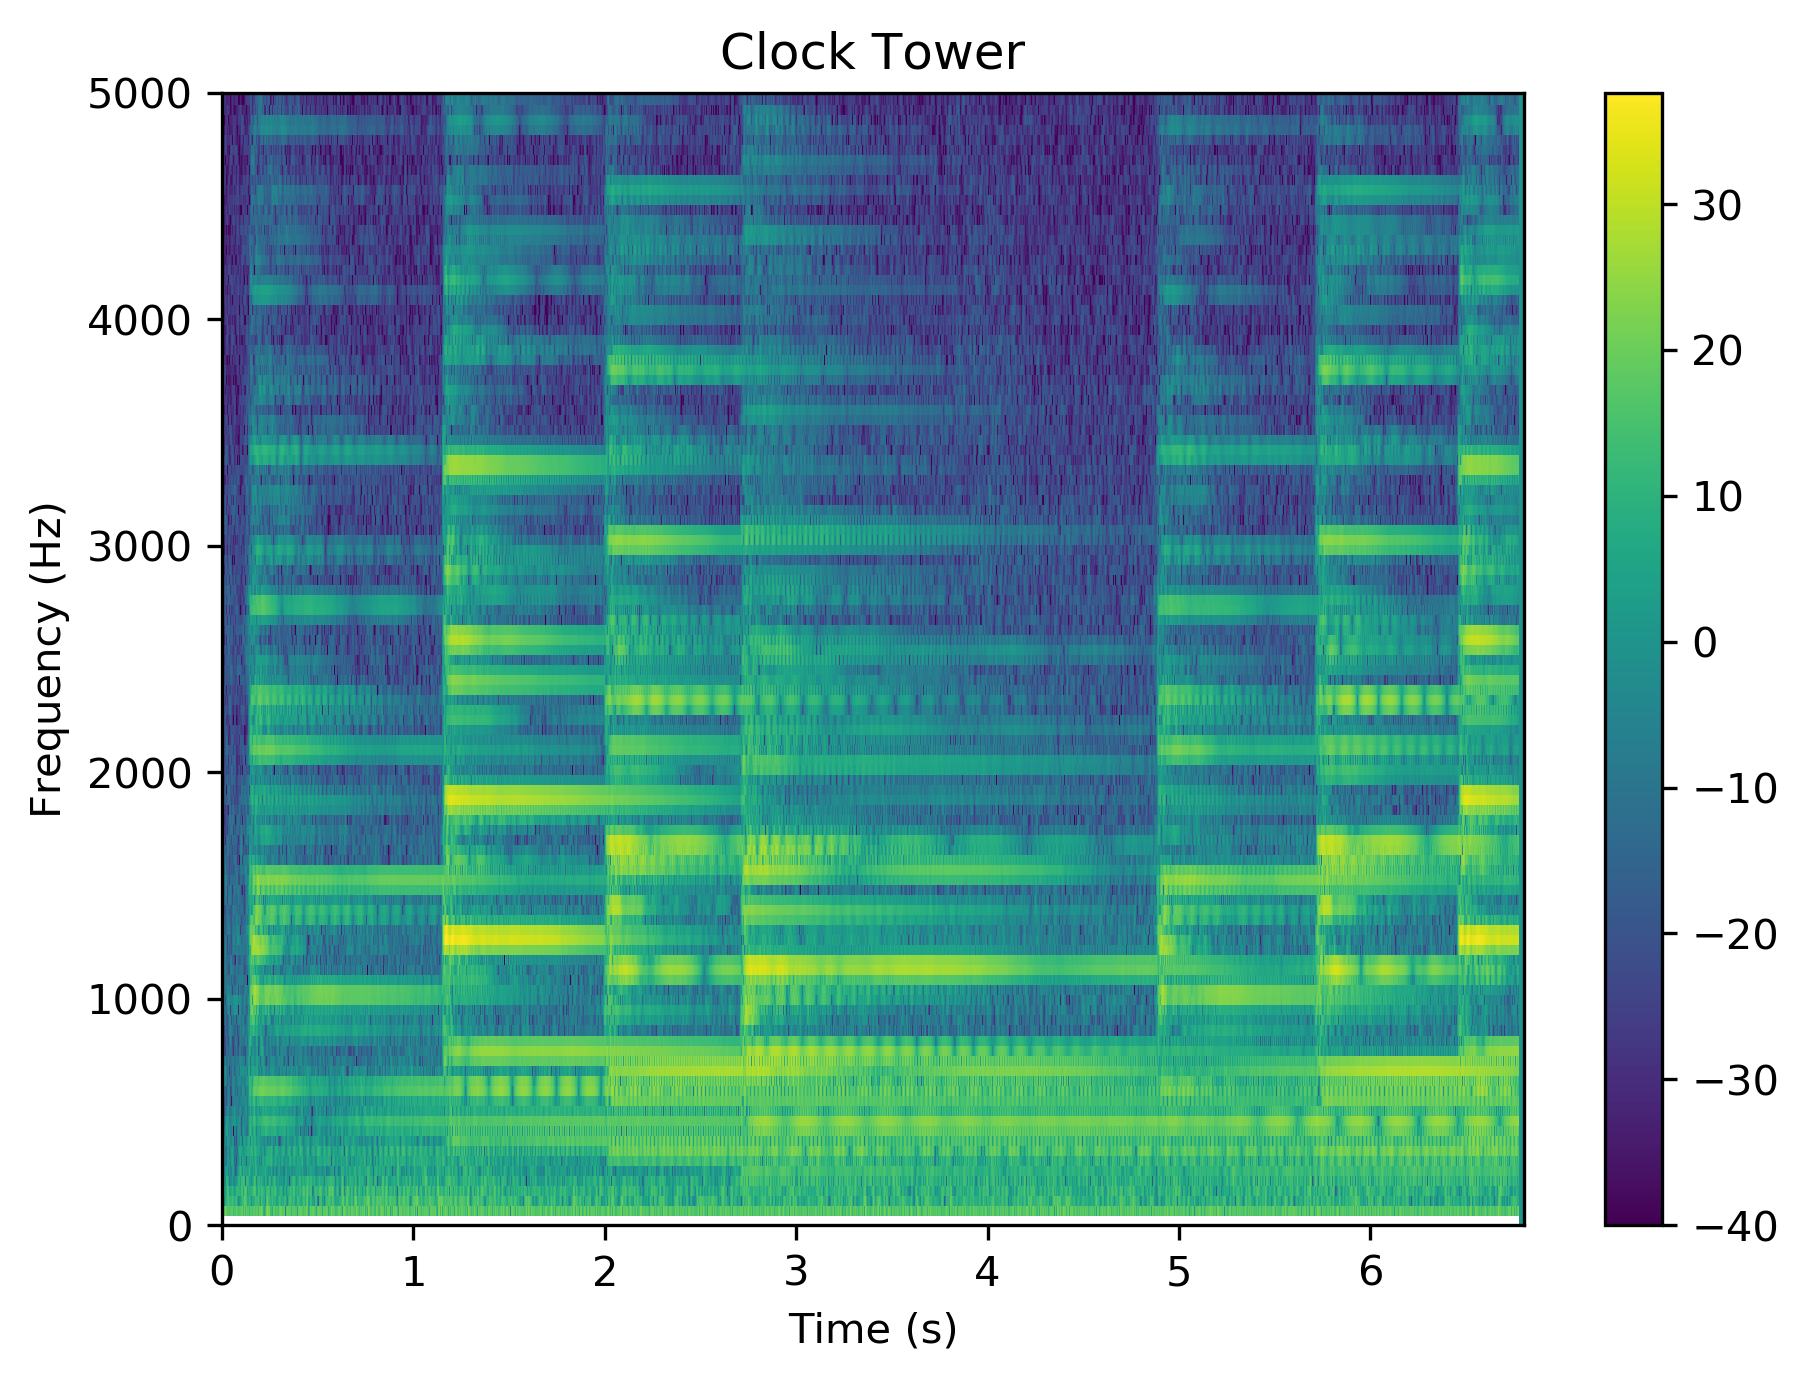
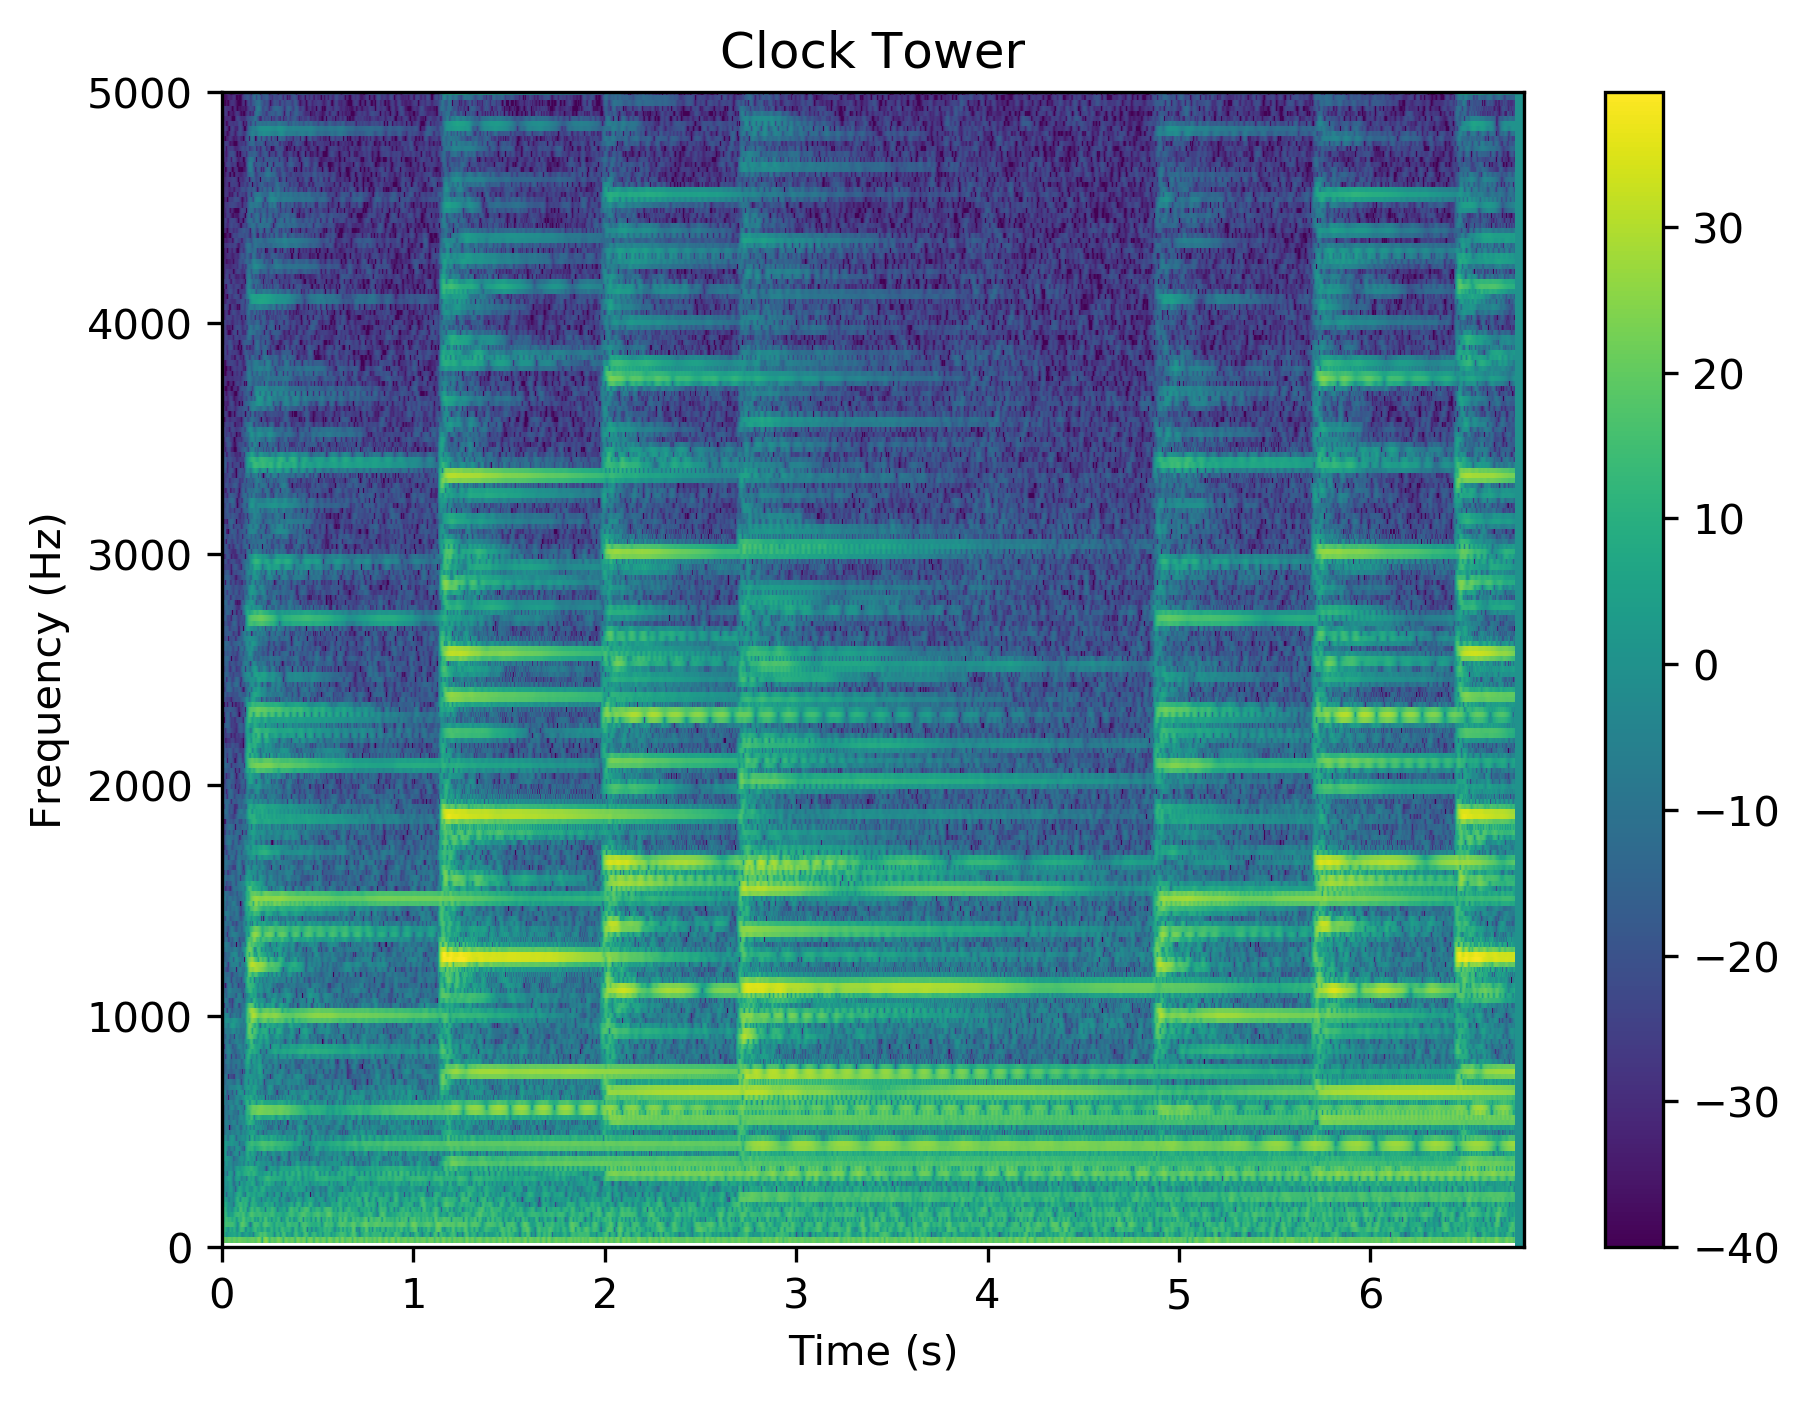
make better clock tower fig

diff --git a/src/python/spectrogram.py b/src/python/spectrogram.py
@@ -173,7 +173,7 @@ if __name__ == '__main__':
 
     plt.figure(figsize=(7, 5))
     plt.title(bird.name)
-    specs, f, t = spectrogram(bird, 1000, 200)
+    specs, f, t = spectrogram(bird, 2000, 200)
     print('Heatmap size:', np.shape(specs))
     t, f = np.meshgrid(t, f)
     plt.xlabel('Time (s)')
@@ -182,3 +182,4 @@ if __name__ == '__main__':
     plt.pcolormesh(t, f, specs, vmin=-40)
     plt.colorbar()
     plt.savefig('../../figures/spec.png', dpi=300, bbox_inches='tight')
+    plt.show()
